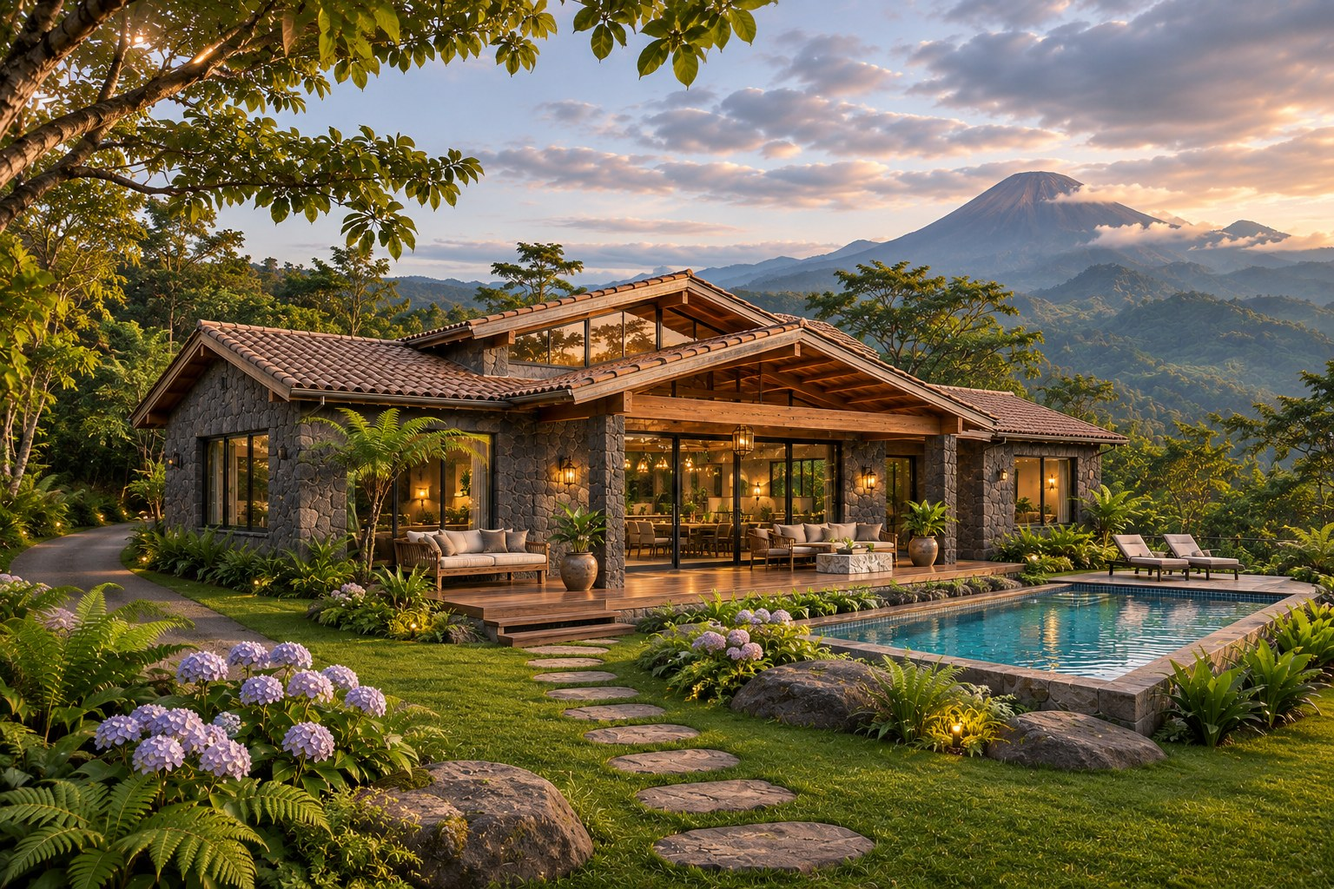
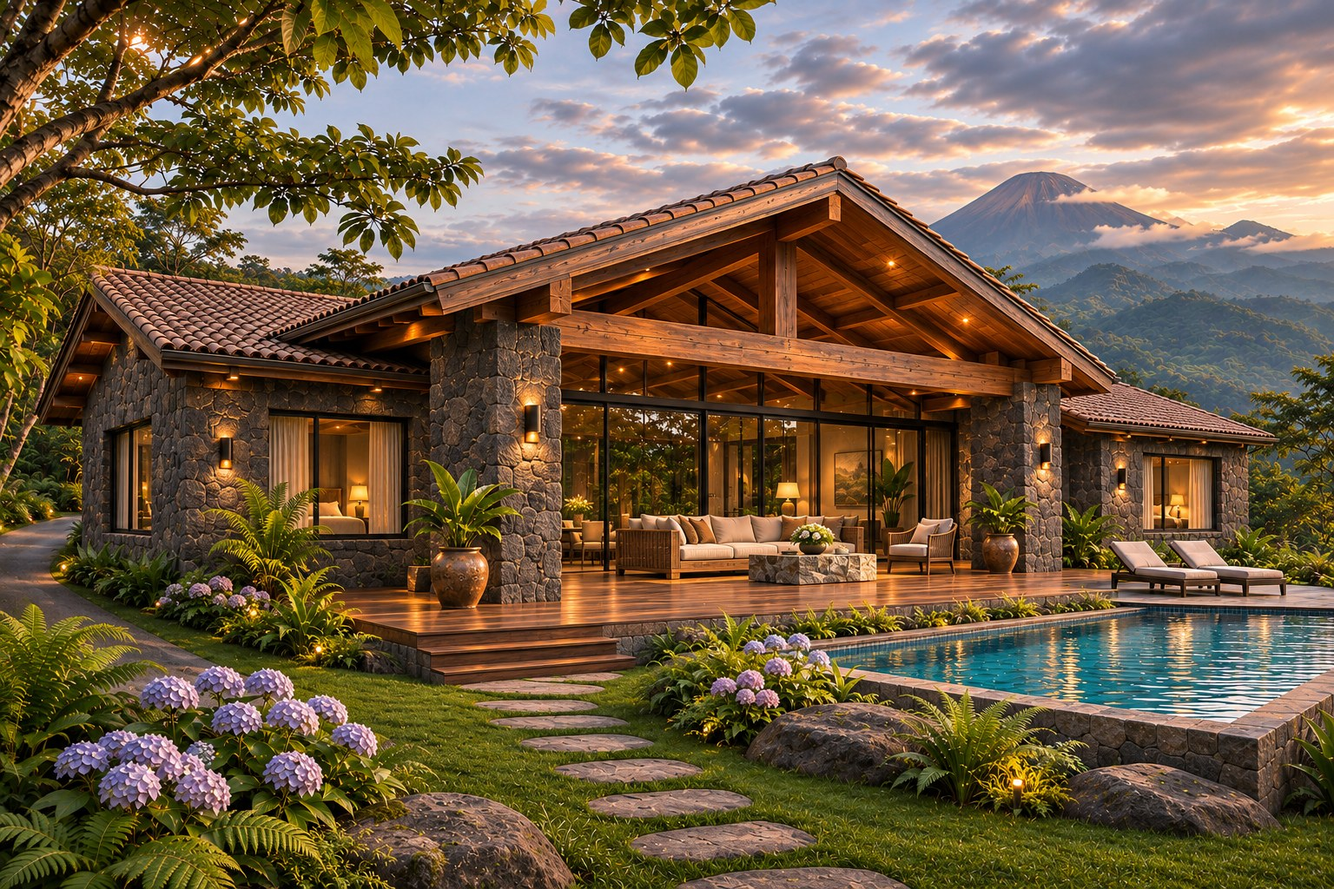
Publish approved bold timber-and-stone Mountain Lodge

diff --git a/residences.html b/residences.html
@@ -1,1 +1,1 @@
-<!doctype html><html lang="en"><head><meta charset="utf-8"><meta name="viewport" content="width=device-width,initial-scale=1"><title>Cabins, lodges &amp; estates | Mount Paradise, Trawas</title><meta name="description" content="Explore eight private residence models across Cabins, Lodges and Estates at Mount Paradise. Ownership enquiries: sales@mountparadisejava.com."><meta name="theme-color" content="#20362d"><meta property="og:site_name" content="Mount Paradise"><meta property="og:title" content="Cabins, lodges &amp; estates | Mount Paradise"><meta property="og:description" content="Explore eight private residence models across Cabins, Lodges and Estates at Mount Paradise. Ownership enquiries: sales@mountparadisejava.com."><meta property="og:type" content="website"><meta property="og:image" content="https://mountparadisejava.com/assets/mount-paradise-social.jpg?v=5c3ecd9ac6cd"><meta property="og:image:secure_url" content="https://mountparadisejava.com/assets/mount-paradise-social.jpg?v=5c3ecd9ac6cd"><meta property="og:image:type" content="image/jpeg"><meta property="og:image:width" content="1200"><meta property="og:image:height" content="630"><meta property="og:image:alt" content="Mount Paradise Main Lodge, gardens and pool in the mountains of East Java"><meta property="og:url" content="https://mountparadisejava.com/residences.html"><meta name="twitter:card" content="summary_large_image"><meta name="twitter:title" content="Cabins, lodges &amp; estates | Mount Paradise"><meta name="twitter:description" content="Explore eight private residence models across Cabins, Lodges and Estates at Mount Paradise. Ownership enquiries: sales@mountparadisejava.com."><meta name="twitter:image" content="https://mountparadisejava.com/assets/mount-paradise-social.jpg?v=5c3ecd9ac6cd"><link rel="canonical" href="https://mountparadisejava.com/residences.html"><link rel="icon" href="assets/mark.svg" type="image/svg+xml"><link rel="stylesheet" href="styles.css?v=20261120-anchor"><script src="site.js?v=20261120-anchor" defer></script></head><body id="top" class="land-page"><a class="skip" href="#main">Skip to content</a><header><a class="brand" href="index.html" aria-label="Mount Paradise home"><svg viewBox="0 0 80 34" aria-hidden="true"><path d="M3 31 29 4 43 21 53 10 77 31M17 25 29 16 37 21"/></svg><span>MOUNT PARADISE<small>TRAWAS · EAST JAVA</small></span></a><button class="menu-toggle" aria-expanded="false" aria-controls="navigation">Menu <span aria-hidden="true">☰</span></button><nav id="navigation" aria-label="Main navigation"><details class="nav-group"><summary>Discover</summary><div class="nav-dropdown"><a href="index.html">Home</a><a href="discover.html">The Mount Paradise story</a><a href="arvorest-woods.html">Arvorest Woods</a></div></details><a href="main-lodge.html" >Main Lodge</a><a href="occasions.html" >Occasions</a><a href="residences.html" aria-current="page">Residences</a><a href="botanical-gardens.html" >Arboretum & Gardens</a><a href="wellness.html" >Wellness & Recreation</a><a href="800-club.html" >800 Club</a></nav></header><main id="main"><section class="page-heading"><p class="eyebrow">Private residences / Ownership collection</p><h1>Your place<br><em>in the mountains.</em></h1><p>Cabins. Lodges. Estates. Eight ways to make Mount Paradise your own.</p></section><section class="section collection-intro" id="discover"><div class="split"><h2>Choose your<br>way of living.</h2><p>Explore the residence models offered for ownership, from an intimate cabin to a generous private estate. Each architectural concept shares warm timber, volcanic stone and a private relationship with the garden. Final layouts, specifications and availability are discussed individually with our sales team.</p></div><div class="catalogue-tabs" aria-label="Residence categories"><a href="#cabins">Cabins <small>2 models</small></a><a href="#lodges">Lodges <small>4 models</small></a><a href="#estates">Estates <small>2 models</small></a></div><div class="model-menu"><a href="#mountain-cabin"><img src="assets/mountain-cabin.jpg?v=bcc466d36d85" alt="Mountain Cabin" loading="lazy"><strong>Mountain Cabin</strong><small>Cabins · Single-storey one-bedroom cabin</small></a><a href="#fern-retreat"><img src="assets/fern-retreat.jpg?v=429e02c01bad" alt="Garden Cabin" loading="lazy"><strong>Garden Cabin</strong><small>Cabins · Single-storey one-bedroom garden cabin</small></a><a href="#garden-lodge"><img src="assets/mountain-lodge-full.jpg?v=728b5c876588" alt="Mountain Lodge" loading="lazy"><strong>Mountain Lodge</strong><small>Lodges · Single-storey two-bedroom mountain home</small></a><a href="#orchard-family"><img src="assets/orchard-family.jpg?v=8fb3ca5d62eb" alt="Courtyard Lodge" loading="lazy"><strong>Courtyard Lodge</strong><small>Lodges · Three-bedroom home arranged around a courtyard</small></a><a href="#vista-lodge"><img src="assets/vista.jpg?v=15de71b12b52" alt="Vista Lodge" loading="lazy"><strong>Vista Lodge</strong><small>Lodges · Broad single-storey three-bedroom lodge</small></a><a href="#forest-lodge"><img src="assets/forest-cinematic.jpg?v=5a62e40a1016" alt="Forest Lodge" loading="lazy"><strong>Forest Lodge</strong><small>Lodges · Two-storey four-bedroom forest home</small></a><a href="#ridge-reserve"><img src="assets/ridge-reserve.jpg?v=6df47c1a2cef" alt="Ridge Estate" loading="lazy"><strong>Ridge Estate</strong><small>Estates · Split-level residence with a tall gable and upper balcony</small></a><a href="#paradise-estate"><img src="assets/paradise-estate.jpg?v=f716ccda8613" alt="Paradise Estate" loading="lazy"><strong>Paradise Estate</strong><small>Estates · Multiple connected residential wings with varied roof heights</small></a></div></section><section class="section collection-group" id="cabins"><p class="eyebrow">cabins</p><h2>A simpler foothold.</h2><p class="collection-lead">Compact private escapes with a garden and sheltered porch.</p><article class="collection-lodge" id="mountain-cabin"><figure class=""><a href="assets/mountain-cabin.jpg?v=bcc466d36d85" data-lightbox aria-label="Enlarge: Mountain Cabin"><img src="assets/mountain-cabin.jpg?v=bcc466d36d85" alt="Mountain Cabin" loading="lazy" width="1536" height="1024"></a></figure><div class="collection-details"><div><h3>Mountain Cabin</h3><p>A warm timber and volcanic-stone cabin with room to settle in. The enlarged concept brings together a cozy living area, kitchenette and small dining table, with a separate bedroom and enclosed bathroom behind. A sheltered porch keeps everyday life close to the mountain garden.</p><a class="text-link" href="mailto:sales@mountparadisejava.com?subject=Mount%20Paradise%20%7C%20Mountain%20Cabin">Enquire about Mountain Cabin</a></div><dl><div><dt>Architecture</dt><dd>Single-storey one-bedroom cabin</dd></div><div><dt>Garden</dt><dd>A small private fern garden</dd></div><div><dt>Pool</dt><dd>No private pool; shared swimming planned at the Main Lodge, subject to membership</dd></div><div><dt>Outdoor living</dt><dd>Sheltered porch with two lounge chairs</dd></div></dl></div></article><article class="collection-lodge" id="fern-retreat"><figure class=""><a href="assets/fern-retreat.jpg?v=429e02c01bad" data-lightbox aria-label="Enlarge: Garden Cabin"><img src="assets/fern-retreat.jpg?v=429e02c01bad" alt="Garden Cabin" loading="lazy" width="1536" height="1024"></a></figure><div class="collection-details"><div><h3>Garden Cabin</h3><p>A generous veranda and private lawn shape this light-filled garden home. The refreshed concept makes room for an open living area, a compact kitchen and indoor dining, with a private bedroom behind a full-height wall and an enclosed bathroom reached from an internal passage. The bedroom sits within a volcanic-stone enclosure on the left, with private garden-facing windows, while a curving path leads to broad steps and the main living entrance. Warm timber and deep eaves preserve its intimate garden character.</p><a class="text-link" href="mailto:sales@mountparadisejava.com?subject=Mount%20Paradise%20%7C%20Garden%20Cabin">Enquire about Garden Cabin</a></div><dl><div><dt>Architecture</dt><dd>Single-storey one-bedroom garden cabin</dd></div><div><dt>Garden</dt><dd>Private lawn and a layered fern garden</dd></div><div><dt>Pool</dt><dd>Garden living without a pool in this concept</dd></div><div><dt>Outdoor living</dt><dd>Broad veranda with a lounge nook and outdoor table</dd></div></dl></div></article></section><section class="section collection-group" id="lodges"><p class="eyebrow">lodges</p><h2>Room to make it yours.</h2><p class="collection-lead">Two-, three- and four-bedroom homes with distinct settings for family life and entertaining. Every lodge is planned with its own driveway and parking behind the house.</p><article class="collection-lodge" id="garden-lodge"><figure class=""><a href="assets/mountain-lodge-full.jpg?v=728b5c876588" data-lightbox aria-label="Enlarge: Mountain Lodge"><img src="assets/mountain-lodge-full.jpg?v=728b5c876588" alt="Mountain Lodge" loading="lazy" width="1536" height="1024"></a></figure><div class="collection-details"><div><h3>Mountain Lodge</h3><p>Our signature two-bedroom Mountain Lodge brings together a sheltered veranda, private pool and generous mountain outlook. Dark volcanic stone and warm timber frame relaxed living spaces, with an intimate scale for a couple, a small family or visiting friends.</p><a class="text-link" href="mailto:sales@mountparadisejava.com?subject=Mount%20Paradise%20%7C%20Mountain%20Lodge">Enquire about Mountain Lodge</a></div><dl><div><dt>Architecture</dt><dd>Single-storey two-bedroom mountain home</dd></div><div><dt>Garden</dt><dd>Private planted garden and pool terrace</dd></div><div><dt>Pool</dt><dd>Private pool</dd></div><div><dt>Outdoor living</dt><dd>BBQ dining terrace</dd></div><div><dt>Bedrooms</dt><dd>2 bedrooms</dd></div><div><dt>Arrival</dt><dd>Private driveway and parking behind the lodge</dd></div></dl></div></article><article class="collection-lodge" id="orchard-family"><figure class=""><a href="assets/orchard-family.jpg?v=8fb3ca5d62eb" data-lightbox aria-label="Enlarge: Courtyard Lodge"><img src="assets/orchard-family.jpg?v=8fb3ca5d62eb" alt="Courtyard Lodge" loading="lazy" width="1536" height="1024"></a></figure><div class="collection-details"><div><h3>Courtyard Lodge</h3><p>Three bedrooms sit within connected wings around a generous courtyard lawn. A larger family pool, covered BBQ dining and space for a casual game of badminton make this a home for unhurried days together.</p><a class="text-link" href="mailto:sales@mountparadisejava.com?subject=Mount%20Paradise%20%7C%20Courtyard%20Lodge">Enquire about Courtyard Lodge</a></div><dl><div><dt>Architecture</dt><dd>Three-bedroom home arranged around a courtyard</dd></div><div><dt>Garden</dt><dd>Courtyard lawn with a badminton net and fruit-tree borders</dd></div><div><dt>Pool</dt><dd>Generous private family swimming pool</dd></div><div><dt>Outdoor living</dt><dd>Covered BBQ dining terrace and lawn games</dd></div><div><dt>Bedrooms</dt><dd>3 bedrooms</dd></div><div><dt>Arrival</dt><dd>Private driveway and parking behind the lodge</dd></div></dl></div></article><article class="collection-lodge" id="vista-lodge"><figure class=""><a href="assets/vista.jpg?v=15de71b12b52" data-lightbox aria-label="Enlarge: Vista Lodge"><img src="assets/vista.jpg?v=15de71b12b52" alt="Vista Lodge" loading="lazy" width="1536" height="1024"></a></figure><div class="collection-details"><div><h3>Vista Lodge</h3><p>A complete three-bedroom home arranged along a broad mountain-facing veranda. A long private pool follows the outlook, with a comfortable lounge and a single sheltered dining area giving the terrace a relaxed residential character.</p><a class="text-link" href="mailto:sales@mountparadisejava.com?subject=Mount%20Paradise%20%7C%20Vista%20Lodge">Enquire about Vista Lodge</a></div><dl><div><dt>Architecture</dt><dd>Broad single-storey three-bedroom lodge</dd></div><div><dt>Garden</dt><dd>Generous view-facing garden and terrace</dd></div><div><dt>Pool</dt><dd>Long private pool</dd></div><div><dt>Outdoor living</dt><dd>Sheltered dining for six, BBQ area and a veranda lounge</dd></div><div><dt>Bedrooms</dt><dd>3 bedrooms</dd></div><div><dt>Arrival</dt><dd>Private driveway and parking behind the lodge</dd></div></dl></div></article><article class="collection-lodge" id="forest-lodge"><figure class=""><a href="assets/forest-cinematic.jpg?v=5a62e40a1016" data-lightbox aria-label="Enlarge: Forest Lodge"><img src="assets/forest-cinematic.jpg?v=5a62e40a1016" alt="Forest Lodge" loading="lazy" width="1536" height="1024"></a></figure><div class="collection-details"><div><h3>Forest Lodge</h3><p>The most expansive lodge in the collection, with four bedrooms, an upper timber balcony and generous living spaces opening into the forest. A substantial swimming pool and a reconfigured terrace create room to swim, lounge and gather among the trees.</p><a class="text-link" href="mailto:sales@mountparadisejava.com?subject=Mount%20Paradise%20%7C%20Forest%20Lodge">Enquire about Forest Lodge</a></div><dl><div><dt>Architecture</dt><dd>Two-storey four-bedroom forest home</dd></div><div><dt>Garden</dt><dd>Terraced garden with shaded corners</dd></div><div><dt>Pool</dt><dd>Large private swimming pool with a generous terrace</dd></div><div><dt>Outdoor living</dt><dd>Sheltered lounge, garden dining and poolside terrace</dd></div><div><dt>Bedrooms</dt><dd>4 bedrooms</dd></div><div><dt>Arrival</dt><dd>Private driveway and parking behind the lodge</dd></div></dl></div></article></section><section class="section collection-group" id="estates"><p class="eyebrow">estates</p><h2>A more expansive world.</h2><p class="collection-lead">Generous homes and grounds for longer stays and bringing everyone together.</p><article class="collection-lodge" id="ridge-reserve"><figure class=""><a href="assets/ridge-reserve.jpg?v=6df47c1a2cef" data-lightbox aria-label="Enlarge: Ridge Estate"><img src="assets/ridge-reserve.jpg?v=6df47c1a2cef" alt="Ridge Estate" loading="lazy" width="1536" height="1024"></a></figure><div class="collection-details"><div><h3>Ridge Estate</h3><p>A tall glazed gable and a lower stone wing create a more expressive mountain home. An upper balcony overlooks the grounds, while the main terrace opens to a generous lawn and a long pool facing the landscape.</p><a class="text-link" href="mailto:sales@mountparadisejava.com?subject=Mount%20Paradise%20%7C%20Ridge%20Estate">Enquire about Ridge Estate</a></div><dl><div><dt>Architecture</dt><dd>Split-level residence with a tall gable and upper balcony</dd></div><div><dt>Garden</dt><dd>Generous landscaped yard with distinct lounging and lawn areas</dd></div><div><dt>Pool</dt><dd>An elongated pool along the view terrace</dd></div><div><dt>Outdoor living</dt><dd>Covered outdoor kitchen with a built-in BBQ grill and dining for eight</dd></div></dl></div></article><article class="collection-lodge" id="paradise-estate"><figure class=""><a href="assets/paradise-estate.jpg?v=f716ccda8613" data-lightbox aria-label="Enlarge: Paradise Estate"><img src="assets/paradise-estate.jpg?v=f716ccda8613" alt="Paradise Estate" loading="lazy" width="1536" height="1024"></a></figure><div class="collection-details"><div><h3>Paradise Estate</h3><p>A private estate conceived around gathering, with substantial residential wings and a shared living hall. The grounds become a sequence of outdoor rooms: a broad lawn, a pool terrace, a dining space and a separate fire lounge.</p><a class="text-link" href="mailto:sales@mountparadisejava.com?subject=Mount%20Paradise%20%7C%20Paradise%20Estate">Enquire about Paradise Estate</a></div><dl><div><dt>Architecture</dt><dd>Multiple connected residential wings with varied roof heights</dd></div><div><dt>Garden</dt><dd>Expansive private grounds with a large usable lawn and mature planting</dd></div><div><dt>Pool</dt><dd>A long private pool with space to relax alongside</dd></div><div><dt>Outdoor living</dt><dd>Full outdoor kitchen with BBQ grill, dining for twelve and a separate fire lounge</dd></div></dl></div></article></section><section class="section contact-band"><div><p class="eyebrow">Residence ownership</p><h2>Find your<br>mountain home.</h2><p>For model availability, specifications and ownership enquiries, speak with the sales team.</p></div><div><a class="text-link" href="mailto:sales@mountparadisejava.com">sales@mountparadisejava.com</a></div></section></main><footer><div class="footer-grid"><div><p class="eyebrow">Mount Paradise / Trawas, East Java</p><h2>An elevated way<br>to stay, gather, and live.</h2><a class="text-link" href="mailto:info@mountparadisejava.com">info@mountparadisejava.com</a><br><a class="text-link" href="mailto:sales@mountparadisejava.com">Residence sales</a></div><div class="footer-links"><a href="discover.html">Discover</a><a href="main-lodge.html">Main Lodge</a><a href="occasions.html">Occasions</a><a href="residences.html">Residences</a><a href="botanical-gardens.html">Arboretum & Gardens</a><a href="wellness.html">Wellness & Recreation</a><a href="800-club.html">800 Club</a></div><div class="footer-links"><a href="index.html">Home</a><a href="arvorest-woods.html">Arvorest Woods</a><a href="botanical-gardens.html">Arboretum & gardens</a></div></div><p class="vision-note">A destination taking shape. Imagery presents architectural and landscape concepts; proposed facilities and experiences are part of the overall vision.</p><div class="footer-bottom"><span>© 2026 Mount Paradise</span><span>MountParadiseJava.com</span><a href="#top">Back to top</a></div></footer><dialog class="lightbox" aria-label="Image viewer"><button aria-label="Close image" class="close-lightbox">Close ×</button><img alt=""></dialog></body></html>
+<!doctype html><html lang="en"><head><meta charset="utf-8"><meta name="viewport" content="width=device-width,initial-scale=1"><title>Cabins, lodges &amp; estates | Mount Paradise, Trawas</title><meta name="description" content="Explore eight private residence models across Cabins, Lodges and Estates at Mount Paradise. Ownership enquiries: sales@mountparadisejava.com."><meta name="theme-color" content="#20362d"><meta property="og:site_name" content="Mount Paradise"><meta property="og:title" content="Cabins, lodges &amp; estates | Mount Paradise"><meta property="og:description" content="Explore eight private residence models across Cabins, Lodges and Estates at Mount Paradise. Ownership enquiries: sales@mountparadisejava.com."><meta property="og:type" content="website"><meta property="og:image" content="https://mountparadisejava.com/assets/mount-paradise-social.jpg?v=5c3ecd9ac6cd"><meta property="og:image:secure_url" content="https://mountparadisejava.com/assets/mount-paradise-social.jpg?v=5c3ecd9ac6cd"><meta property="og:image:type" content="image/jpeg"><meta property="og:image:width" content="1200"><meta property="og:image:height" content="630"><meta property="og:image:alt" content="Mount Paradise Main Lodge, gardens and pool in the mountains of East Java"><meta property="og:url" content="https://mountparadisejava.com/residences.html"><meta name="twitter:card" content="summary_large_image"><meta name="twitter:title" content="Cabins, lodges &amp; estates | Mount Paradise"><meta name="twitter:description" content="Explore eight private residence models across Cabins, Lodges and Estates at Mount Paradise. Ownership enquiries: sales@mountparadisejava.com."><meta name="twitter:image" content="https://mountparadisejava.com/assets/mount-paradise-social.jpg?v=5c3ecd9ac6cd"><link rel="canonical" href="https://mountparadisejava.com/residences.html"><link rel="icon" href="assets/mark.svg" type="image/svg+xml"><link rel="stylesheet" href="styles.css?v=20261120-anchor"><script src="site.js?v=20261120-anchor" defer></script></head><body id="top" class="land-page"><a class="skip" href="#main">Skip to content</a><header><a class="brand" href="index.html" aria-label="Mount Paradise home"><svg viewBox="0 0 80 34" aria-hidden="true"><path d="M3 31 29 4 43 21 53 10 77 31M17 25 29 16 37 21"/></svg><span>MOUNT PARADISE<small>TRAWAS · EAST JAVA</small></span></a><button class="menu-toggle" aria-expanded="false" aria-controls="navigation">Menu <span aria-hidden="true">☰</span></button><nav id="navigation" aria-label="Main navigation"><details class="nav-group"><summary>Discover</summary><div class="nav-dropdown"><a href="index.html">Home</a><a href="discover.html">The Mount Paradise story</a><a href="arvorest-woods.html">Arvorest Woods</a></div></details><a href="main-lodge.html" >Main Lodge</a><a href="occasions.html" >Occasions</a><a href="residences.html" aria-current="page">Residences</a><a href="botanical-gardens.html" >Arboretum & Gardens</a><a href="wellness.html" >Wellness & Recreation</a><a href="800-club.html" >800 Club</a></nav></header><main id="main"><section class="page-heading"><p class="eyebrow">Private residences / Ownership collection</p><h1>Your place<br><em>in the mountains.</em></h1><p>Cabins. Lodges. Estates. Eight ways to make Mount Paradise your own.</p></section><section class="section collection-intro" id="discover"><div class="split"><h2>Choose your<br>way of living.</h2><p>Explore the residence models offered for ownership, from an intimate cabin to a generous private estate. Each architectural concept shares warm timber, volcanic stone and a private relationship with the garden. Final layouts, specifications and availability are discussed individually with our sales team.</p></div><div class="catalogue-tabs" aria-label="Residence categories"><a href="#cabins">Cabins <small>2 models</small></a><a href="#lodges">Lodges <small>4 models</small></a><a href="#estates">Estates <small>2 models</small></a></div><div class="model-menu"><a href="#mountain-cabin"><img src="assets/mountain-cabin.jpg?v=bcc466d36d85" alt="Mountain Cabin" loading="lazy"><strong>Mountain Cabin</strong><small>Cabins · Single-storey one-bedroom cabin</small></a><a href="#fern-retreat"><img src="assets/fern-retreat.jpg?v=429e02c01bad" alt="Garden Cabin" loading="lazy"><strong>Garden Cabin</strong><small>Cabins · Single-storey one-bedroom garden cabin</small></a><a href="#garden-lodge"><img src="assets/mountain-lodge-full.jpg?v=c046265d838a" alt="Mountain Lodge" loading="lazy"><strong>Mountain Lodge</strong><small>Lodges · Single-storey two-bedroom mountain home</small></a><a href="#orchard-family"><img src="assets/orchard-family.jpg?v=8fb3ca5d62eb" alt="Courtyard Lodge" loading="lazy"><strong>Courtyard Lodge</strong><small>Lodges · Three-bedroom home arranged around a courtyard</small></a><a href="#vista-lodge"><img src="assets/vista.jpg?v=15de71b12b52" alt="Vista Lodge" loading="lazy"><strong>Vista Lodge</strong><small>Lodges · Broad single-storey three-bedroom lodge</small></a><a href="#forest-lodge"><img src="assets/forest-cinematic.jpg?v=5a62e40a1016" alt="Forest Lodge" loading="lazy"><strong>Forest Lodge</strong><small>Lodges · Two-storey four-bedroom forest home</small></a><a href="#ridge-reserve"><img src="assets/ridge-reserve.jpg?v=6df47c1a2cef" alt="Ridge Estate" loading="lazy"><strong>Ridge Estate</strong><small>Estates · Split-level residence with a tall gable and upper balcony</small></a><a href="#paradise-estate"><img src="assets/paradise-estate.jpg?v=f716ccda8613" alt="Paradise Estate" loading="lazy"><strong>Paradise Estate</strong><small>Estates · Multiple connected residential wings with varied roof heights</small></a></div></section><section class="section collection-group" id="cabins"><p class="eyebrow">cabins</p><h2>A simpler foothold.</h2><p class="collection-lead">Compact private escapes with a garden and sheltered porch.</p><article class="collection-lodge" id="mountain-cabin"><figure class=""><a href="assets/mountain-cabin.jpg?v=bcc466d36d85" data-lightbox aria-label="Enlarge: Mountain Cabin"><img src="assets/mountain-cabin.jpg?v=bcc466d36d85" alt="Mountain Cabin" loading="lazy" width="1536" height="1024"></a></figure><div class="collection-details"><div><h3>Mountain Cabin</h3><p>A warm timber and volcanic-stone cabin with room to settle in. The enlarged concept brings together a cozy living area, kitchenette and small dining table, with a separate bedroom and enclosed bathroom behind. A sheltered porch keeps everyday life close to the mountain garden.</p><a class="text-link" href="mailto:sales@mountparadisejava.com?subject=Mount%20Paradise%20%7C%20Mountain%20Cabin">Enquire about Mountain Cabin</a></div><dl><div><dt>Architecture</dt><dd>Single-storey one-bedroom cabin</dd></div><div><dt>Garden</dt><dd>A small private fern garden</dd></div><div><dt>Pool</dt><dd>No private pool; shared swimming planned at the Main Lodge, subject to membership</dd></div><div><dt>Outdoor living</dt><dd>Sheltered porch with two lounge chairs</dd></div></dl></div></article><article class="collection-lodge" id="fern-retreat"><figure class=""><a href="assets/fern-retreat.jpg?v=429e02c01bad" data-lightbox aria-label="Enlarge: Garden Cabin"><img src="assets/fern-retreat.jpg?v=429e02c01bad" alt="Garden Cabin" loading="lazy" width="1536" height="1024"></a></figure><div class="collection-details"><div><h3>Garden Cabin</h3><p>A generous veranda and private lawn shape this light-filled garden home. The refreshed concept makes room for an open living area, a compact kitchen and indoor dining, with a private bedroom behind a full-height wall and an enclosed bathroom reached from an internal passage. The bedroom sits within a volcanic-stone enclosure on the left, with private garden-facing windows, while a curving path leads to broad steps and the main living entrance. Warm timber and deep eaves preserve its intimate garden character.</p><a class="text-link" href="mailto:sales@mountparadisejava.com?subject=Mount%20Paradise%20%7C%20Garden%20Cabin">Enquire about Garden Cabin</a></div><dl><div><dt>Architecture</dt><dd>Single-storey one-bedroom garden cabin</dd></div><div><dt>Garden</dt><dd>Private lawn and a layered fern garden</dd></div><div><dt>Pool</dt><dd>Garden living without a pool in this concept</dd></div><div><dt>Outdoor living</dt><dd>Broad veranda with a lounge nook and outdoor table</dd></div></dl></div></article></section><section class="section collection-group" id="lodges"><p class="eyebrow">lodges</p><h2>Room to make it yours.</h2><p class="collection-lead">Two-, three- and four-bedroom homes with distinct settings for family life and entertaining. Every lodge is planned with its own driveway and parking behind the house.</p><article class="collection-lodge" id="garden-lodge"><figure class=""><a href="assets/mountain-lodge-full.jpg?v=c046265d838a" data-lightbox aria-label="Enlarge: Mountain Lodge"><img src="assets/mountain-lodge-full.jpg?v=c046265d838a" alt="Mountain Lodge" loading="lazy" width="1536" height="1024"></a></figure><div class="collection-details"><div><h3>Mountain Lodge</h3><p>Our signature two-bedroom Mountain Lodge brings together a sheltered veranda, private pool and generous mountain outlook. Dark volcanic stone and warm timber frame relaxed living spaces, with an intimate scale for a couple, a small family or visiting friends.</p><a class="text-link" href="mailto:sales@mountparadisejava.com?subject=Mount%20Paradise%20%7C%20Mountain%20Lodge">Enquire about Mountain Lodge</a></div><dl><div><dt>Architecture</dt><dd>Single-storey two-bedroom mountain home</dd></div><div><dt>Garden</dt><dd>Private planted garden and pool terrace</dd></div><div><dt>Pool</dt><dd>Private pool</dd></div><div><dt>Outdoor living</dt><dd>BBQ dining terrace</dd></div><div><dt>Bedrooms</dt><dd>2 bedrooms</dd></div><div><dt>Arrival</dt><dd>Private driveway and parking behind the lodge</dd></div></dl></div></article><article class="collection-lodge" id="orchard-family"><figure class=""><a href="assets/orchard-family.jpg?v=8fb3ca5d62eb" data-lightbox aria-label="Enlarge: Courtyard Lodge"><img src="assets/orchard-family.jpg?v=8fb3ca5d62eb" alt="Courtyard Lodge" loading="lazy" width="1536" height="1024"></a></figure><div class="collection-details"><div><h3>Courtyard Lodge</h3><p>Three bedrooms sit within connected wings around a generous courtyard lawn. A larger family pool, covered BBQ dining and space for a casual game of badminton make this a home for unhurried days together.</p><a class="text-link" href="mailto:sales@mountparadisejava.com?subject=Mount%20Paradise%20%7C%20Courtyard%20Lodge">Enquire about Courtyard Lodge</a></div><dl><div><dt>Architecture</dt><dd>Three-bedroom home arranged around a courtyard</dd></div><div><dt>Garden</dt><dd>Courtyard lawn with a badminton net and fruit-tree borders</dd></div><div><dt>Pool</dt><dd>Generous private family swimming pool</dd></div><div><dt>Outdoor living</dt><dd>Covered BBQ dining terrace and lawn games</dd></div><div><dt>Bedrooms</dt><dd>3 bedrooms</dd></div><div><dt>Arrival</dt><dd>Private driveway and parking behind the lodge</dd></div></dl></div></article><article class="collection-lodge" id="vista-lodge"><figure class=""><a href="assets/vista.jpg?v=15de71b12b52" data-lightbox aria-label="Enlarge: Vista Lodge"><img src="assets/vista.jpg?v=15de71b12b52" alt="Vista Lodge" loading="lazy" width="1536" height="1024"></a></figure><div class="collection-details"><div><h3>Vista Lodge</h3><p>A complete three-bedroom home arranged along a broad mountain-facing veranda. A long private pool follows the outlook, with a comfortable lounge and a single sheltered dining area giving the terrace a relaxed residential character.</p><a class="text-link" href="mailto:sales@mountparadisejava.com?subject=Mount%20Paradise%20%7C%20Vista%20Lodge">Enquire about Vista Lodge</a></div><dl><div><dt>Architecture</dt><dd>Broad single-storey three-bedroom lodge</dd></div><div><dt>Garden</dt><dd>Generous view-facing garden and terrace</dd></div><div><dt>Pool</dt><dd>Long private pool</dd></div><div><dt>Outdoor living</dt><dd>Sheltered dining for six, BBQ area and a veranda lounge</dd></div><div><dt>Bedrooms</dt><dd>3 bedrooms</dd></div><div><dt>Arrival</dt><dd>Private driveway and parking behind the lodge</dd></div></dl></div></article><article class="collection-lodge" id="forest-lodge"><figure class=""><a href="assets/forest-cinematic.jpg?v=5a62e40a1016" data-lightbox aria-label="Enlarge: Forest Lodge"><img src="assets/forest-cinematic.jpg?v=5a62e40a1016" alt="Forest Lodge" loading="lazy" width="1536" height="1024"></a></figure><div class="collection-details"><div><h3>Forest Lodge</h3><p>The most expansive lodge in the collection, with four bedrooms, an upper timber balcony and generous living spaces opening into the forest. A substantial swimming pool and a reconfigured terrace create room to swim, lounge and gather among the trees.</p><a class="text-link" href="mailto:sales@mountparadisejava.com?subject=Mount%20Paradise%20%7C%20Forest%20Lodge">Enquire about Forest Lodge</a></div><dl><div><dt>Architecture</dt><dd>Two-storey four-bedroom forest home</dd></div><div><dt>Garden</dt><dd>Terraced garden with shaded corners</dd></div><div><dt>Pool</dt><dd>Large private swimming pool with a generous terrace</dd></div><div><dt>Outdoor living</dt><dd>Sheltered lounge, garden dining and poolside terrace</dd></div><div><dt>Bedrooms</dt><dd>4 bedrooms</dd></div><div><dt>Arrival</dt><dd>Private driveway and parking behind the lodge</dd></div></dl></div></article></section><section class="section collection-group" id="estates"><p class="eyebrow">estates</p><h2>A more expansive world.</h2><p class="collection-lead">Generous homes and grounds for longer stays and bringing everyone together.</p><article class="collection-lodge" id="ridge-reserve"><figure class=""><a href="assets/ridge-reserve.jpg?v=6df47c1a2cef" data-lightbox aria-label="Enlarge: Ridge Estate"><img src="assets/ridge-reserve.jpg?v=6df47c1a2cef" alt="Ridge Estate" loading="lazy" width="1536" height="1024"></a></figure><div class="collection-details"><div><h3>Ridge Estate</h3><p>A tall glazed gable and a lower stone wing create a more expressive mountain home. An upper balcony overlooks the grounds, while the main terrace opens to a generous lawn and a long pool facing the landscape.</p><a class="text-link" href="mailto:sales@mountparadisejava.com?subject=Mount%20Paradise%20%7C%20Ridge%20Estate">Enquire about Ridge Estate</a></div><dl><div><dt>Architecture</dt><dd>Split-level residence with a tall gable and upper balcony</dd></div><div><dt>Garden</dt><dd>Generous landscaped yard with distinct lounging and lawn areas</dd></div><div><dt>Pool</dt><dd>An elongated pool along the view terrace</dd></div><div><dt>Outdoor living</dt><dd>Covered outdoor kitchen with a built-in BBQ grill and dining for eight</dd></div></dl></div></article><article class="collection-lodge" id="paradise-estate"><figure class=""><a href="assets/paradise-estate.jpg?v=f716ccda8613" data-lightbox aria-label="Enlarge: Paradise Estate"><img src="assets/paradise-estate.jpg?v=f716ccda8613" alt="Paradise Estate" loading="lazy" width="1536" height="1024"></a></figure><div class="collection-details"><div><h3>Paradise Estate</h3><p>A private estate conceived around gathering, with substantial residential wings and a shared living hall. The grounds become a sequence of outdoor rooms: a broad lawn, a pool terrace, a dining space and a separate fire lounge.</p><a class="text-link" href="mailto:sales@mountparadisejava.com?subject=Mount%20Paradise%20%7C%20Paradise%20Estate">Enquire about Paradise Estate</a></div><dl><div><dt>Architecture</dt><dd>Multiple connected residential wings with varied roof heights</dd></div><div><dt>Garden</dt><dd>Expansive private grounds with a large usable lawn and mature planting</dd></div><div><dt>Pool</dt><dd>A long private pool with space to relax alongside</dd></div><div><dt>Outdoor living</dt><dd>Full outdoor kitchen with BBQ grill, dining for twelve and a separate fire lounge</dd></div></dl></div></article></section><section class="section contact-band"><div><p class="eyebrow">Residence ownership</p><h2>Find your<br>mountain home.</h2><p>For model availability, specifications and ownership enquiries, speak with the sales team.</p></div><div><a class="text-link" href="mailto:sales@mountparadisejava.com">sales@mountparadisejava.com</a></div></section></main><footer><div class="footer-grid"><div><p class="eyebrow">Mount Paradise / Trawas, East Java</p><h2>An elevated way<br>to stay, gather, and live.</h2><a class="text-link" href="mailto:info@mountparadisejava.com">info@mountparadisejava.com</a><br><a class="text-link" href="mailto:sales@mountparadisejava.com">Residence sales</a></div><div class="footer-links"><a href="discover.html">Discover</a><a href="main-lodge.html">Main Lodge</a><a href="occasions.html">Occasions</a><a href="residences.html">Residences</a><a href="botanical-gardens.html">Arboretum & Gardens</a><a href="wellness.html">Wellness & Recreation</a><a href="800-club.html">800 Club</a></div><div class="footer-links"><a href="index.html">Home</a><a href="arvorest-woods.html">Arvorest Woods</a><a href="botanical-gardens.html">Arboretum & gardens</a></div></div><p class="vision-note">A destination taking shape. Imagery presents architectural and landscape concepts; proposed facilities and experiences are part of the overall vision.</p><div class="footer-bottom"><span>© 2026 Mount Paradise</span><span>MountParadiseJava.com</span><a href="#top">Back to top</a></div></footer><dialog class="lightbox" aria-label="Image viewer"><button aria-label="Close image" class="close-lightbox">Close ×</button><img alt=""></dialog></body></html>
